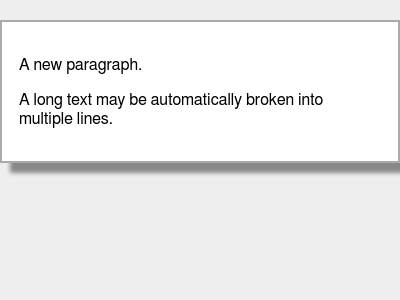
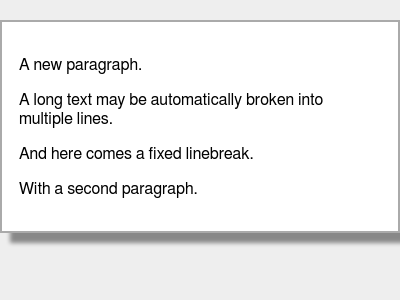
Updated documentation

Changed region(s): [[0.0, 0.48, 1.0, 0.84]]

diff --git a/README.md.html b/README.md.html
@@ -452,18 +452,27 @@ Paragraphs
 Normal
   </h4>
 </div>
-<p>All this methods need a text and an optional width as last parameter used for
-automatic line breaks in markdown style.</p>
+<p>Use it for a normal text paragraph.</p>
 <pre><code class="coffee">report.p <span class="hljs-string">'A new paragraph.'</span>
 report.p <span class="hljs-string">'A long text may be automatically broken into multiple lines.'</span>, <span class="hljs-number">40</span>
+report.p <span class="hljs-string">'And here comes a fixed\n linebreak.\n\nWith a second paragraph.'</span>
 </code></pre>
+<p>You may give the line length for markdown as optional second parameter.</p>
 <p>This goes into html as:</p>
 <pre><code class="markdown">A new paragraph.
 
 A long text may be automatically broken
 into multiple lines.
+
+And here comes a fixed
+linebreak.
+
+With a second paragraph.
 </code></pre>
-<p>And renders as:</p>
+<p>In markdown you write your text directly, line breaks will not be held but made
+like needed. An empty line starts a new paragraph but if you need a line break
+on a specific position use a slash at the end.</p>
+<p>And renders in HTML as:</p>
 <p><img src="src/doc/elements/paragraph.png" alt="paragraph"></p>
 <div class="pilwrap" id="quote">
   <h4>
@@ -471,10 +480,23 @@ into multiple lines.
 Quote
   </h4>
 </div>
-<p>For quoted text you can give the depth level as number (default is 1):</p>
-<pre><code class="coffee">report.quote <span class="hljs-string">'My home is my castle!'</span>, <span class="hljs-number">1</span>
+<p>Quoted text is used if you show another opinion and it may also be multiple level
+deep. It is like used in emails.</p>
+<pre><code class="coffee">report.quote <span class="hljs-string">'My home is my castle!'</span>
+report.quote <span class="hljs-string">"I would like to visit a castle in north scotland, next year."</span>, <span class="hljs-number">2</span>, <span class="hljs-number">40</span>
 </code></pre>
+<p>Parameters:</p>
+<ul>
+<li>(string) text for thee quote</li>
+<li>(integer) depth level 1.. (default: 1)</li>
+<li>(integer) max width in markdown</li>
+</ul>
+<p>You may give the quoting depth as second parameter and maybe the line length for
+markdown as third parameter.</p>
 <pre><code class="markdown"><span class="hljs-quote">&gt; My home is my castle!</span>
+
+<span class="hljs-quote">&gt; &gt; I would like to visit a castle in</span>
+<span class="hljs-quote">&gt; &gt; north scotland, next year.</span>
 </code></pre>
 <p>And renders as:</p>
 <p><img src="src/doc/elements/quote.png" alt="quote"></p>

diff --git a/src/doc/elements/quote.html.html b/src/doc/elements/quote.html.html
@@ -359,6 +359,12 @@
   <span class="hljs-tag">&lt;<span class="hljs-name">body</span>&gt;</span><span class="hljs-tag">&lt;<span class="hljs-name">blockquote</span>&gt;</span>
 <span class="hljs-tag">&lt;<span class="hljs-name">p</span>&gt;</span>My home is my castle!<span class="hljs-tag">&lt;/<span class="hljs-name">p</span>&gt;</span>
 <span class="hljs-tag">&lt;/<span class="hljs-name">blockquote</span>&gt;</span>
+<span class="hljs-tag">&lt;<span class="hljs-name">blockquote</span>&gt;</span>
+<span class="hljs-tag">&lt;<span class="hljs-name">blockquote</span>&gt;</span>
+<span class="hljs-tag">&lt;<span class="hljs-name">p</span>&gt;</span>I would like to visit a castle in
+north scotland, next year.<span class="hljs-tag">&lt;/<span class="hljs-name">p</span>&gt;</span>
+<span class="hljs-tag">&lt;/<span class="hljs-name">blockquote</span>&gt;</span>
+<span class="hljs-tag">&lt;/<span class="hljs-name">blockquote</span>&gt;</span>
 <span class="hljs-tag">&lt;/<span class="hljs-name">body</span>&gt;</span>
 <span class="hljs-tag">&lt;/<span class="hljs-name">html</span>&gt;</span></pre>
         </td>

diff --git a/src/doc/elements/paragraph.html.html b/src/doc/elements/paragraph.html.html
@@ -359,6 +359,9 @@
   <span class="hljs-tag">&lt;<span class="hljs-name">body</span>&gt;</span><span class="hljs-tag">&lt;<span class="hljs-name">p</span>&gt;</span>A new paragraph.<span class="hljs-tag">&lt;/<span class="hljs-name">p</span>&gt;</span>
 <span class="hljs-tag">&lt;<span class="hljs-name">p</span>&gt;</span>A long text may be automatically broken
 into multiple lines.<span class="hljs-tag">&lt;/<span class="hljs-name">p</span>&gt;</span>
+<span class="hljs-tag">&lt;<span class="hljs-name">p</span>&gt;</span>And here comes a fixed
+linebreak.<span class="hljs-tag">&lt;/<span class="hljs-name">p</span>&gt;</span>
+<span class="hljs-tag">&lt;<span class="hljs-name">p</span>&gt;</span>With a second paragraph.<span class="hljs-tag">&lt;/<span class="hljs-name">p</span>&gt;</span>
 <span class="hljs-tag">&lt;/<span class="hljs-name">body</span>&gt;</span>
 <span class="hljs-tag">&lt;/<span class="hljs-name">html</span>&gt;</span></pre>
         </td>

diff --git a/src/doc/elements/quote.md.html b/src/doc/elements/quote.md.html
@@ -50,6 +50,12 @@
 <blockquote>
 <p>My home is my castle!</p>
 </blockquote>
+<blockquote>
+<blockquote>
+<p>I would like to visit a castle in
+north scotland, next year.</p>
+</blockquote>
+</blockquote>
 </div>
   </div>
 </body>

diff --git a/src/doc/elements/paragraph.md.html b/src/doc/elements/paragraph.md.html
@@ -50,6 +50,9 @@
 <p>A new paragraph.</p>
 <p>A long text may be automatically broken
 into multiple lines.</p>
+<p>And here comes a fixed
+linebreak.</p>
+<p>With a second paragraph.</p>
 </div>
   </div>
 </body>
